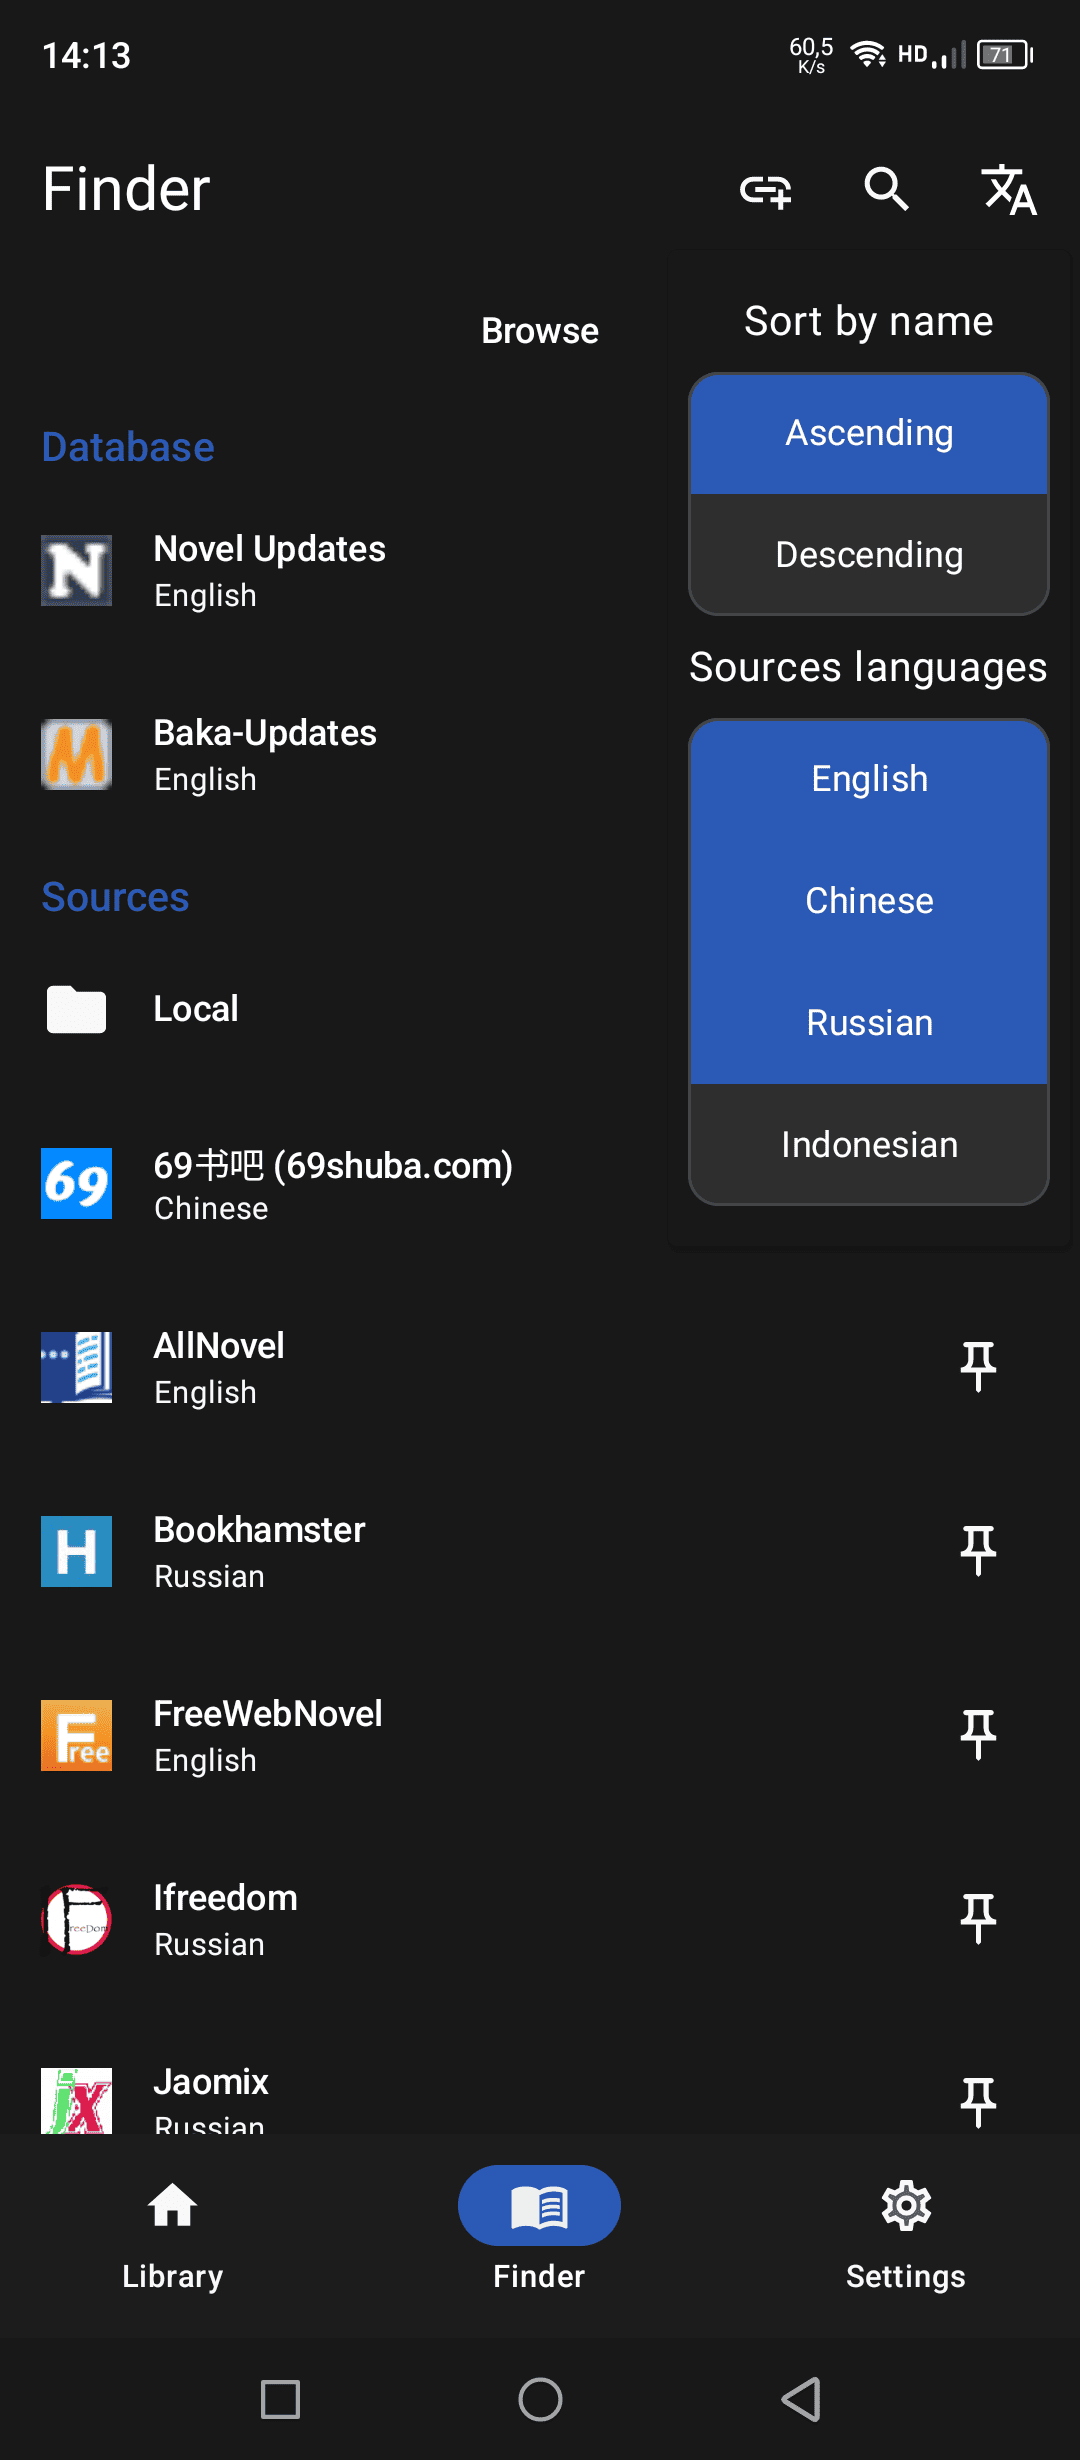
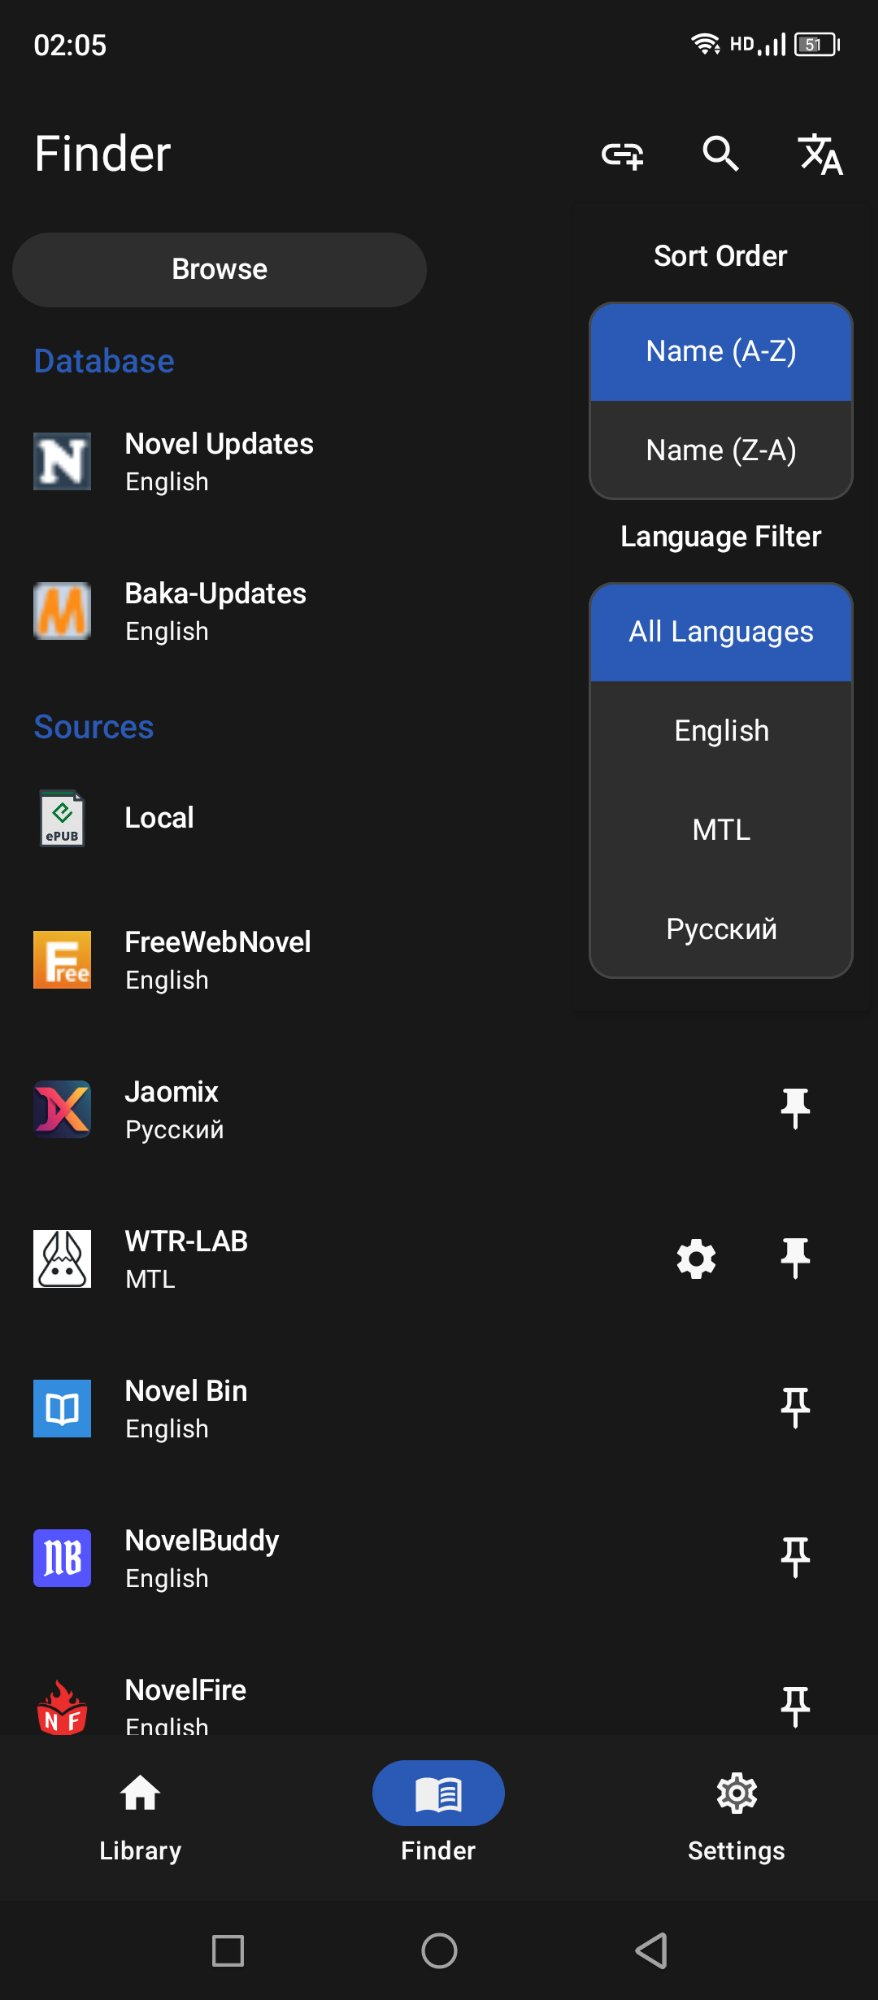
update

diff --git a/README.md b/README.md
@@ -16,7 +16,7 @@ Focused on immersion, simplicity, and convenient reading of foreign content.
 
 ## 📖 Description
 
-**Novela** is an open-source Android application for reading web novels, light novels, and EPUB with built-in translation and multi-source support.
+**NoveLA** is an open-source Android application for reading web novels, light novels, and EPUB with built-in translation and multi-source support.
 
 The app is designed for convenient reading of foreign content: find a novel, open a chapter, and translate text instantly inside the reader.
 
@@ -40,9 +40,21 @@ Main focus:
 
 ---
 
+### 🧩 External Plugin Repository
+
+NoveLA supports external Lua-based plugin repositories, allowing community-maintained sources to be installed directly from the app.
+
+**Official external repository:** [`HnDK0/external-sources`](https://github.com/HnDK0/external-sources)
+
+To add it: go to **Finder → Extensions → ⚙️ Settings** and paste the repository URL.
+
+Community contributions (new sources, fixes) are welcome via pull requests to the external repository.
+
+---
+
 ### 📚 Multi-Source Support
 
-Complete list of supported sources:
+Complete list of built-in sources:
 
 #### 🇨🇳 Chinese sources
 - 69书吧  
@@ -76,9 +88,8 @@ Complete list of supported sources:
 
 #### 🇮🇩 Indonesian sources
 - BacaLightnovel  
-- Novelku  
 
-#### 🌐 Multilanguage sources
+#### 🌐 MTL sources
 - WTR-LAB  
 
 #### 📄 Local source
@@ -113,6 +124,7 @@ Additional features:
 - Backup and restore support
 
 ---
+
 ## 🖼 Screenshots
 <details open>
 <summary>Show screenshots</summary>
@@ -120,27 +132,27 @@ Additional features:
   <tr>
     <td align="center"><b>Library</b><br><img src="screenshots/Screenshot_Library.png"/></td>
     <td align="center"><b>Sources</b><br><img src="screenshots/Screenshot_Finder.png"/></td>
-    <td align="center"><b>Book</b><br><img src="screenshots/Screenshot_book.png"/></td>
+    <td align="center"><b>Extensions</b><br><img src="screenshots/Screenshot_Extensions.png"/></td>
   </tr>
   <tr>
+    <td align="center"><b>Book</b><br><img src="screenshots/Screenshot_book.png"/></td>
     <td align="center"><b>Chapter</b><br><img src="screenshots/Screenshot_Chapter.png"/></td>
     <td align="center"><b>Translation</b><br><img src="screenshots/Screenshot_Chapter_Translate.png"/></td>
-    <td align="center"><b>Voice</b><br><img src="screenshots/Screenshot_Chapter_Voice.png"/></td>
   </tr>
   <tr>
+    <td align="center"><b>Voice</b><br><img src="screenshots/Screenshot_Chapter_Voice.png"/></td>
     <td align="center"><b>Add by URL</b><br><img src="screenshots/Screenshot_Add_by_URLs.png"/></td>
     <td align="center"><b>Global Search</b><br><img src="screenshots/Screenshot_Global_Search.png"/></td>
-    <td align="center"><b>Settings</b><br><img src="screenshots/Screenshot_settings.png"/></td>
   </tr>
   <tr>
+    <td align="center"><b>Settings</b><br><img src="screenshots/Screenshot_settings.png"/></td>
     <td align="center"><b>Cloudflare Bypass</b><br><img src="screenshots/Screenshot_CF_Turnstile.png"/></td>
     <td align="center"><b>Regex settings</b><br><img src="screenshots/Screenshot_settings_regex_.png"/></td>
-    <td align="center"><b>Regex cleanup</b><br><img src="screenshots/Screenshot_regex_Cleanup.png"/></td>
   </tr>
   <tr>
+    <td align="center"><b>Regex cleanup</b><br><img src="screenshots/Screenshot_regex_Cleanup.png"/></td>
     <td align="center"><b>WTR-LAB language</b><br><img src="screenshots/wtrlab_set_language.png"/></td>
     <td align="center"><b>WTR-LAB settings</b><br><img src="screenshots/wrtlab_setting.png"/></td>
-    <td></td>
   </tr>
 </table>
 </details>
@@ -155,12 +167,13 @@ Additional features:
 - Coil, Glide
 - Android TTS & Media APIs
 - Google MLKit
+- LuaJ (plugin engine)
 
 ---
 
 ## 📦 Installation
 ```bash
-git clone https://github.com/HnDK0/Novela
+git clone https://github.com/HnDK0/NoveLA
 ```
 Open the project in Android Studio and run on a device or emulator.
 
@@ -176,7 +189,7 @@ GPL-3.0
 
 ## 📖 Описание
 
-**Novela** — это open source Android-приложение для чтения веб-новелл, ранобэ и EPUB с встроенным переводчиком и поддержкой множества источников.
+**NoveLA** — это open source Android-приложение для чтения веб-новелл, ранобэ и EPUB с встроенным переводчиком и поддержкой множества источников.
 
 Приложение создано для удобного чтения иностранного контента: находите новеллу, открываете главу и переводите текст прямо в ридере без лишних действий.
 
@@ -200,9 +213,21 @@ GPL-3.0
 
 ---
 
+### 🧩 Внешний репозиторий плагинов
+
+NoveLA поддерживает внешние Lua-плагины, которые можно устанавливать прямо из приложения через репозитории, поддерживаемые сообществом.
+
+**Официальный внешний репозиторий:** [`HnDK0/external-sources`](https://github.com/HnDK0/external-sources)
+
+Чтобы подключить: **Finder → Extensions → ⚙️ Настройки** → вставьте URL репозитория.
+
+PR с новыми источниками и исправлениями приветствуются.
+
+---
+
 ### 📚 Поддержка множества источников
 
-Полный список поддерживаемых источников:
+Полный список встроенных источников:
 
 #### 🇨🇳 Китайские источники
 - 69书吧  
@@ -236,9 +261,8 @@ GPL-3.0
 
 #### 🇮🇩 Индонезийские источники
 - BacaLightnovel  
-- Novelku  
 
-#### 🌐 Мультиязычные источники
+#### 🌐 MTL источники
 - WTR-LAB  
 
 #### 📄 Локальный источник
@@ -281,27 +305,27 @@ GPL-3.0
   <tr>
     <td align="center"><b>Library</b><br><img src="screenshots/Screenshot_Library.png"/></td>
     <td align="center"><b>Sources</b><br><img src="screenshots/Screenshot_Finder.png"/></td>
-    <td align="center"><b>Book</b><br><img src="screenshots/Screenshot_book.png"/></td>
+    <td align="center"><b>Extensions</b><br><img src="screenshots/Screenshot_Extensions.png"/></td>
   </tr>
   <tr>
+    <td align="center"><b>Book</b><br><img src="screenshots/Screenshot_book.png"/></td>
     <td align="center"><b>Chapter</b><br><img src="screenshots/Screenshot_Chapter.png"/></td>
     <td align="center"><b>Translation</b><br><img src="screenshots/Screenshot_Chapter_Translate.png"/></td>
-    <td align="center"><b>Voice</b><br><img src="screenshots/Screenshot_Chapter_Voice.png"/></td>
   </tr>
   <tr>
+    <td align="center"><b>Voice</b><br><img src="screenshots/Screenshot_Chapter_Voice.png"/></td>
     <td align="center"><b>Add by URL</b><br><img src="screenshots/Screenshot_Add_by_URLs.png"/></td>
     <td align="center"><b>Global Search</b><br><img src="screenshots/Screenshot_Global_Search.png"/></td>
-    <td align="center"><b>Settings</b><br><img src="screenshots/Screenshot_settings.png"/></td>
   </tr>
   <tr>
+    <td align="center"><b>Settings</b><br><img src="screenshots/Screenshot_settings.png"/></td>
     <td align="center"><b>Cloudflare Bypass</b><br><img src="screenshots/Screenshot_CF_Turnstile.png"/></td>
     <td align="center"><b>Regex settings</b><br><img src="screenshots/Screenshot_settings_regex_.png"/></td>
-    <td align="center"><b>Regex cleanup</b><br><img src="screenshots/Screenshot_regex_Cleanup.png"/></td>
   </tr>
   <tr>
+    <td align="center"><b>Regex cleanup</b><br><img src="screenshots/Screenshot_regex_Cleanup.png"/></td>
     <td align="center"><b>WTR-LAB language</b><br><img src="screenshots/wtrlab_set_language.png"/></td>
     <td align="center"><b>WTR-LAB settings</b><br><img src="screenshots/wrtlab_setting.png"/></td>
-    <td></td>
   </tr>
 </table>
 </details>
@@ -317,12 +341,13 @@ GPL-3.0
 - Coil, Glide
 - Android TTS & Media APIs
 - Google MLKit
+- LuaJ (движок плагинов)
 
 ---
 
 ## 📦 Установка
 ```bash
-git clone https://github.com/HnDK0/Novela
+git clone https://github.com/HnDK0/NoveLA
 ```
 Откройте проект в Android Studio и запустите на устройстве или эмуляторе.
 